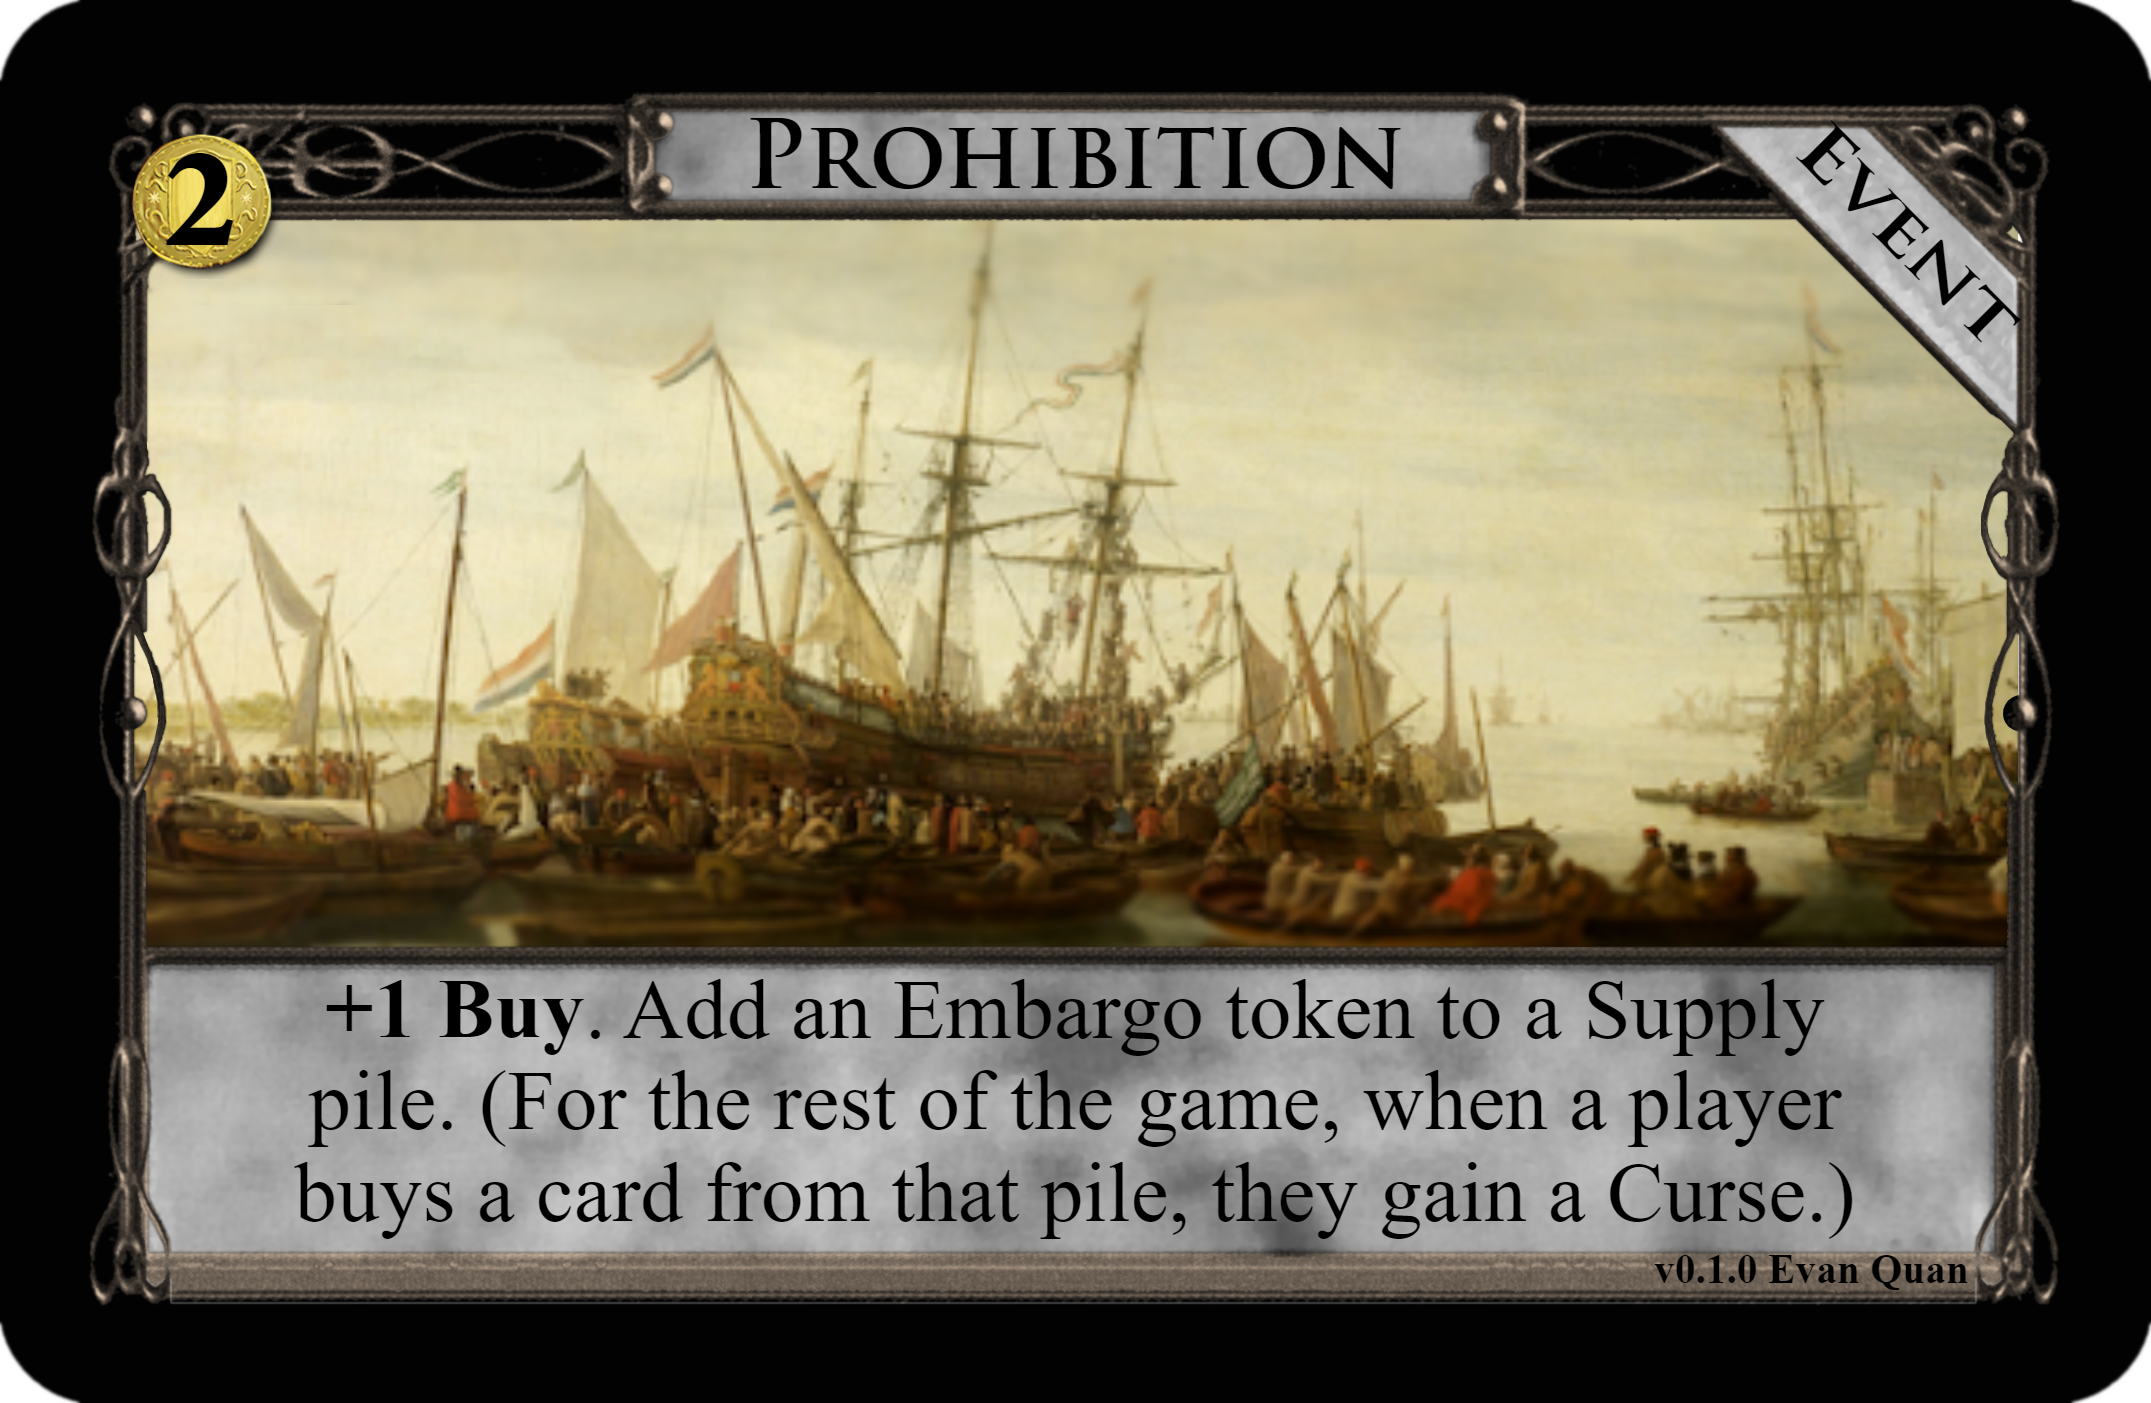
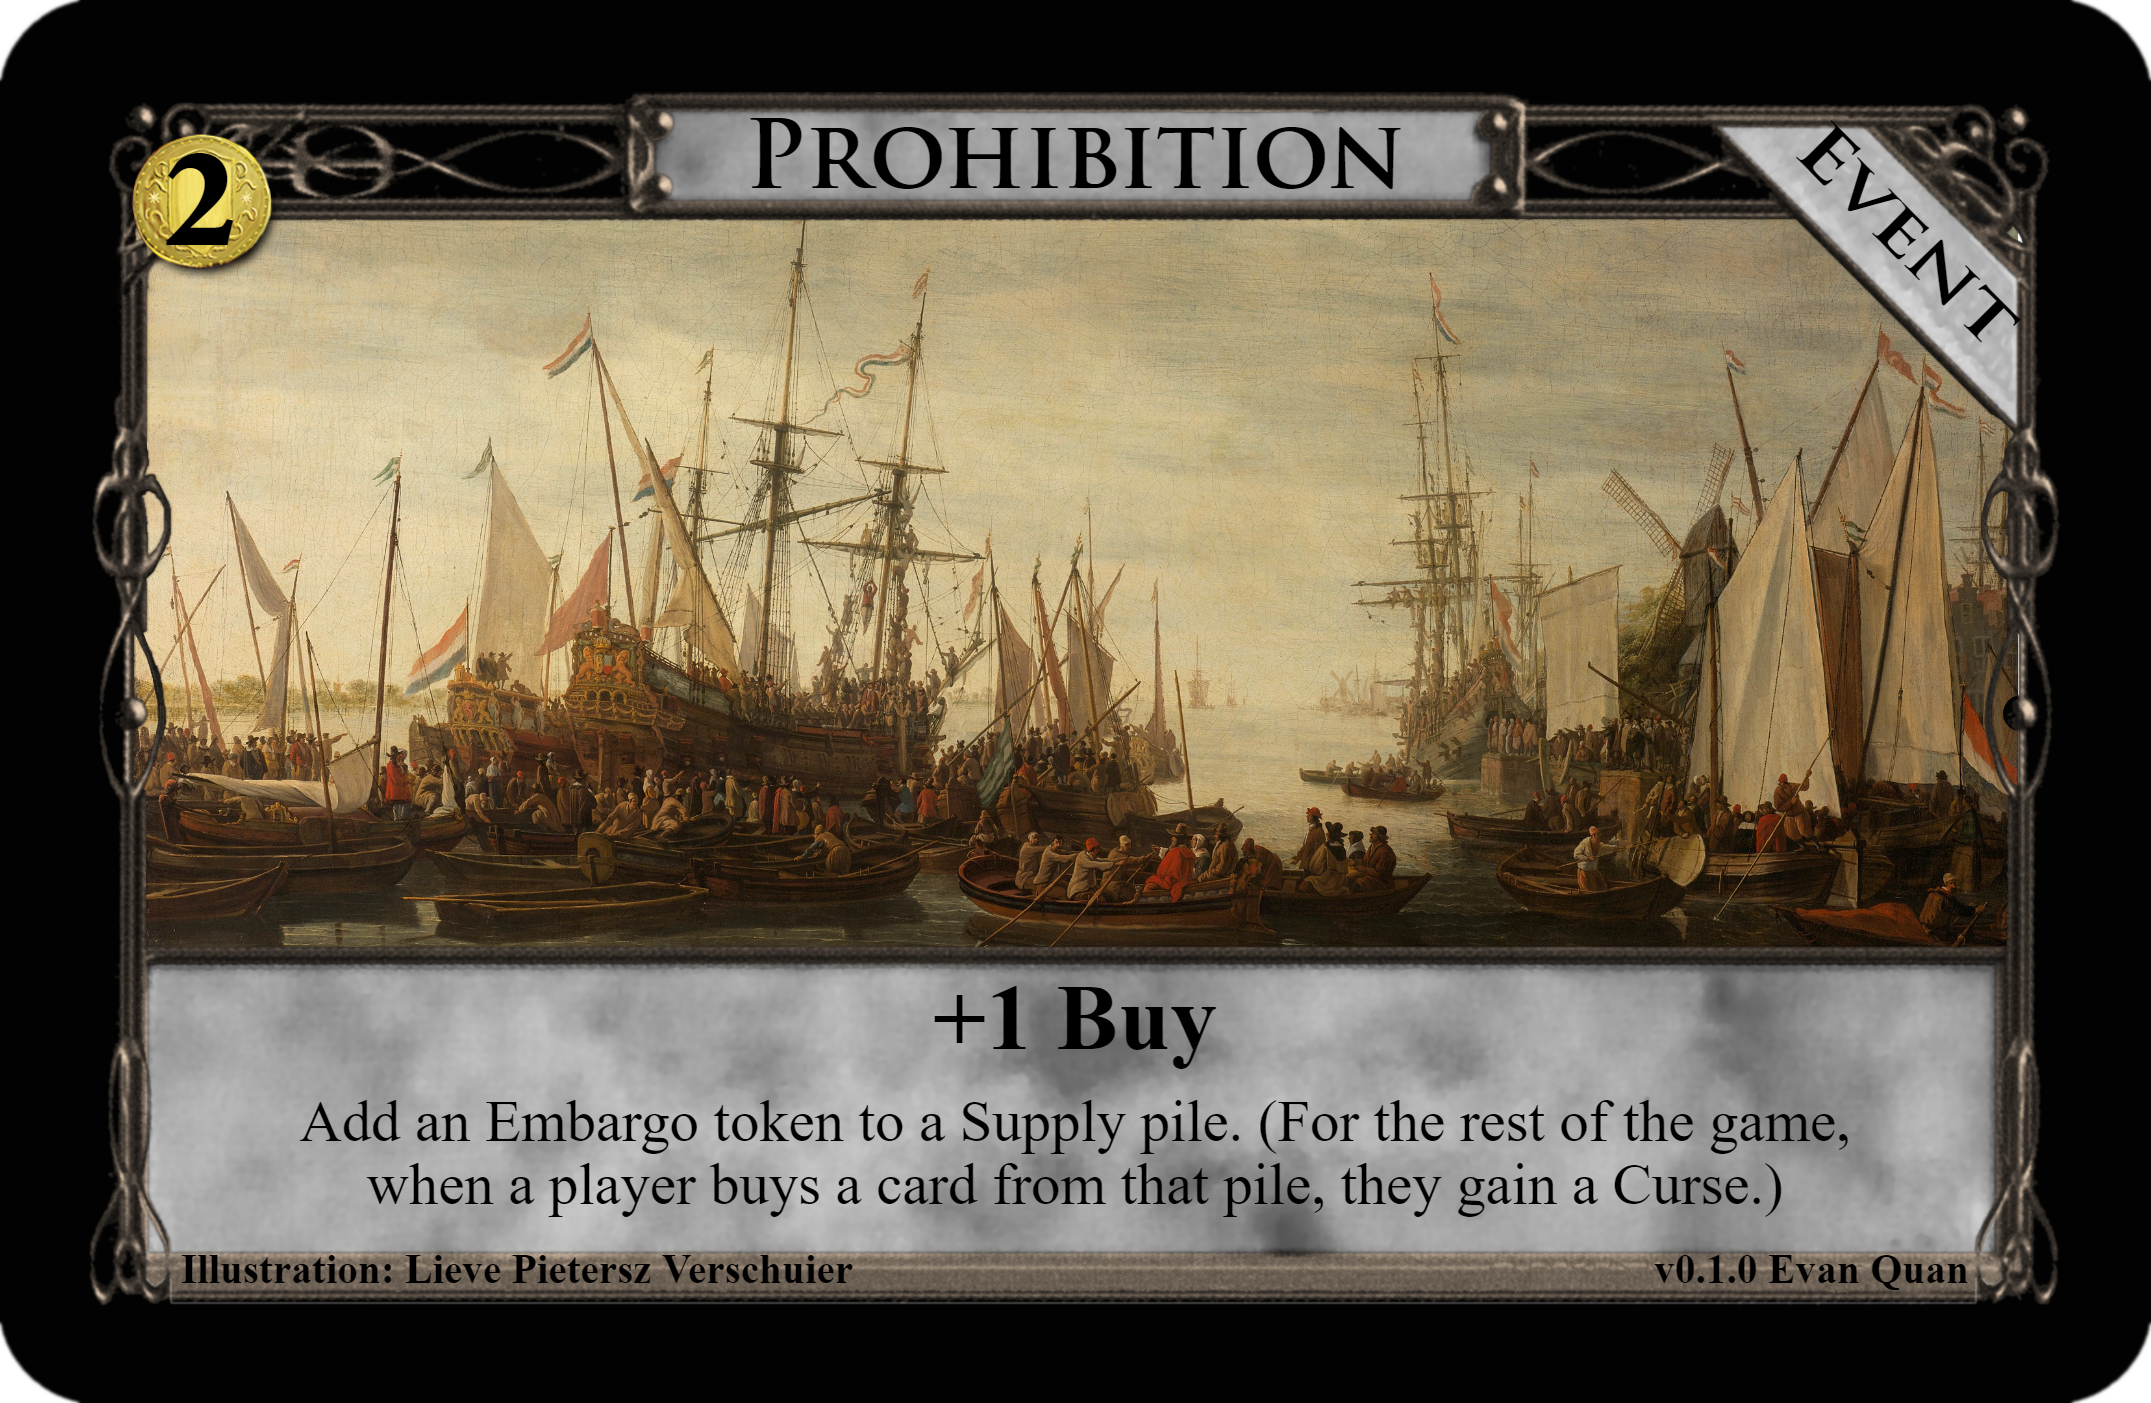
Add credits.

diff --git a/Event/Prohibition.md b/Event/Prohibition.md
@@ -2,7 +2,26 @@
 
 ![v0.1.0][^v0.1.0]
 
+---
+
+[Card][^Card]
+
+[Illustrator][^Illustrator]
+
+[Illustration][^Illustration]
+
+---
+
 Event version of [Embargo][^Embargo].
+
+## History
+
+### v0.1.0
+
+![v0.1.0][^v0.1.0]
 
 [^v0.1.0]: /Event/Images/Prohibition_v0.1.0.png
 [^Embargo]: http://wiki.dominionstrategy.com/index.php/Embargo
+[^Card]: https://shardofhonor.github.io/dominion-card-generator/?title=Prohibition&description=%2B1%20Buy%0AAdd%20an%20Embargo%20token%20to%20a%20Supply%20pile.%20(For%20the%20rest%20of%20the%20game%2C%20when%20a%20player%20buys%20a%20card%20from%20that%20pile%2C%20they%20gain%20a%20Curse.)&type=Event&credit=Illustration%3A%20Lieve%20Pietersz%20Verschuier&creator=v0.1.0%20Evan%20Quan&price=%242&preview=&type2=&color2split=1&boldkeys=&picture-x=0&picture-y=-0.65&picture-zoom=1&picture=https%3A%2F%2Fupload.wikimedia.org%2Fwikipedia%2Fcommons%2Fb%2Fb3%2FHet_kielhalen_van_de_scheepschirurgijn_van_admiraal_Jan_van_Nes_Rijksmuseum_SK-A-449.jpeg&expansion=&custom-icon=&color0=0&color1=0&size=1
+[^Illustrator]: https://en.wikipedia.org/wiki/Lieve_Verschuier
+[^Illustration]: https://commons.wikimedia.org/wiki/File:Het_kielhalen_van_de_scheepschirurgijn_van_admiraal_Jan_van_Nes_Rijksmuseum_SK-A-449.jpeg
